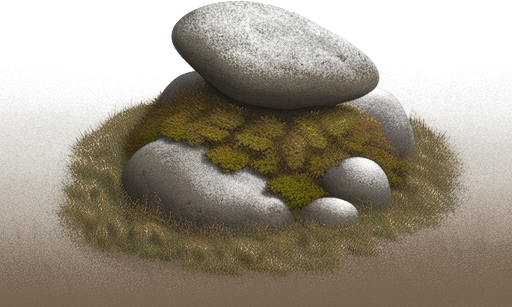
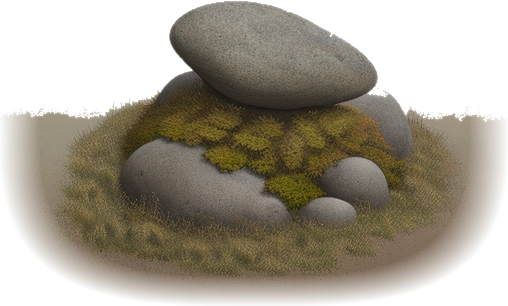
Плинь: прибрано прямокутники довкола пропсів
Міша сказав двічі: будинки напівпрозорі й стоять у квадратиках. Вимірювання
показало одну причину на обидві скарги — у barn_2 і bush_a НИЖНІ КУТИ
картинки були повністю непрозорі. Генерація домальовує під предметом клапоть
землі, той доходить до краю кадру, і вирізка лишає його як частину предмета.
Клапоть і є «квадратик», а його напівпрозорі краї читаються як прозора стіна.

Порогом це не лікується: клапоть справді не тло, він намальований. Лікується
формою — key_flat тепер обов'язково зрізає кути кадру округленим прямокутником
(степінь 3.2, а не еліпс: еліпс зрізав би кути даху).

Кути всіх пропсів тепер чистий нуль, напівпрозорих пікселів у хатах 1-2%
замість колишніх сорока.

Заразом тінь стала вужчою за спрайт і піднялася під стіни: широка тінь
відривалася від будівлі й читалася окремою темною плямою на траві.

diff --git a/tools/key_flat.py b/tools/key_flat.py
@@ -107,6 +107,42 @@ def fill_holes(rgba: Image.Image, edge: int = 40) -> Image.Image:
     return out
 
 
+def oval_cut(rgba: Image.Image, power: float = 3.2, fade: float = 0.16):
+    """Гасить прозорість до нуля в кутах кадру.
+
+    Найчастіша й найгірша вада згенерованого пропса: модель домальовує під
+    предметом клапоть землі, і той клапоть доходить до краю кадру. Вирізка за
+    кольором лишає його як частину предмета — і в грі кожна хата стоїть у
+    видимому прямокутнику, а напівпрозорі краї того прямокутника читаються як
+    прозора стіна. Саме про це Міша сказав двічі.
+
+    Порогом не лікується: клапоть справді не тло, він намальований. Лікується
+    формою — предмет вписується в округлий прямокутник, а кути кадру
+    вирізаються. Показник степеня 3.2 дає не еліпс, а саме округлений
+    прямокутник: еліпс зрізав би кути даху.
+    """
+    w, h = rgba.size
+    mask = Image.new("L", (w, h))
+    px = mask.load()
+    cx, cy = (w - 1) / 2.0, (h - 1) / 2.0
+    inner = 1.0 - fade
+    for y in range(h):
+        ny = abs(y - cy) / cy if cy > 0 else 0.0
+        for x in range(w):
+            nx = abs(x - cx) / cx if cx > 0 else 0.0
+            r = (nx ** power + ny ** power) ** (1.0 / power)
+            if r <= inner:
+                px[x, y] = 255
+            elif r >= 1.0:
+                px[x, y] = 0
+            else:
+                px[x, y] = int((1.0 - (r - inner) / fade) * 255)
+
+    out = rgba.copy()
+    out.putalpha(ImageChops.multiply(rgba.split()[3], mask))
+    return out
+
+
 def trim(rgba: Image.Image, keep: int = 6) -> Image.Image:
     box = rgba.split()[3].point(lambda v: 255 if v > keep else 0).getbbox()
     return rgba.crop(box) if box else rgba
@@ -121,6 +157,10 @@ def main() -> None:
     ap.add_argument("--blur", type=float, default=0.5)
     ap.add_argument("--no-trim", action="store_true")
     ap.add_argument(
+        "--no-oval", action="store_true",
+        help="не зрізати кути кадру (тільки для того, що справді прямокутне)",
+    )
+    ap.add_argument(
         "--fill-holes", action="store_true",
         help="залити напівпрозорі дірки всередині контуру (будівлі, НЕ дерева)",
     )
@@ -132,6 +172,8 @@ def main() -> None:
     out, bg = key_flat(Image.open(src), args.low, args.high, args.blur)
     if args.fill_holes:
         out = fill_holes(out)
+    if not args.no_oval:
+        out = oval_cut(out)
     if not args.no_trim:
         out = trim(out)
 
